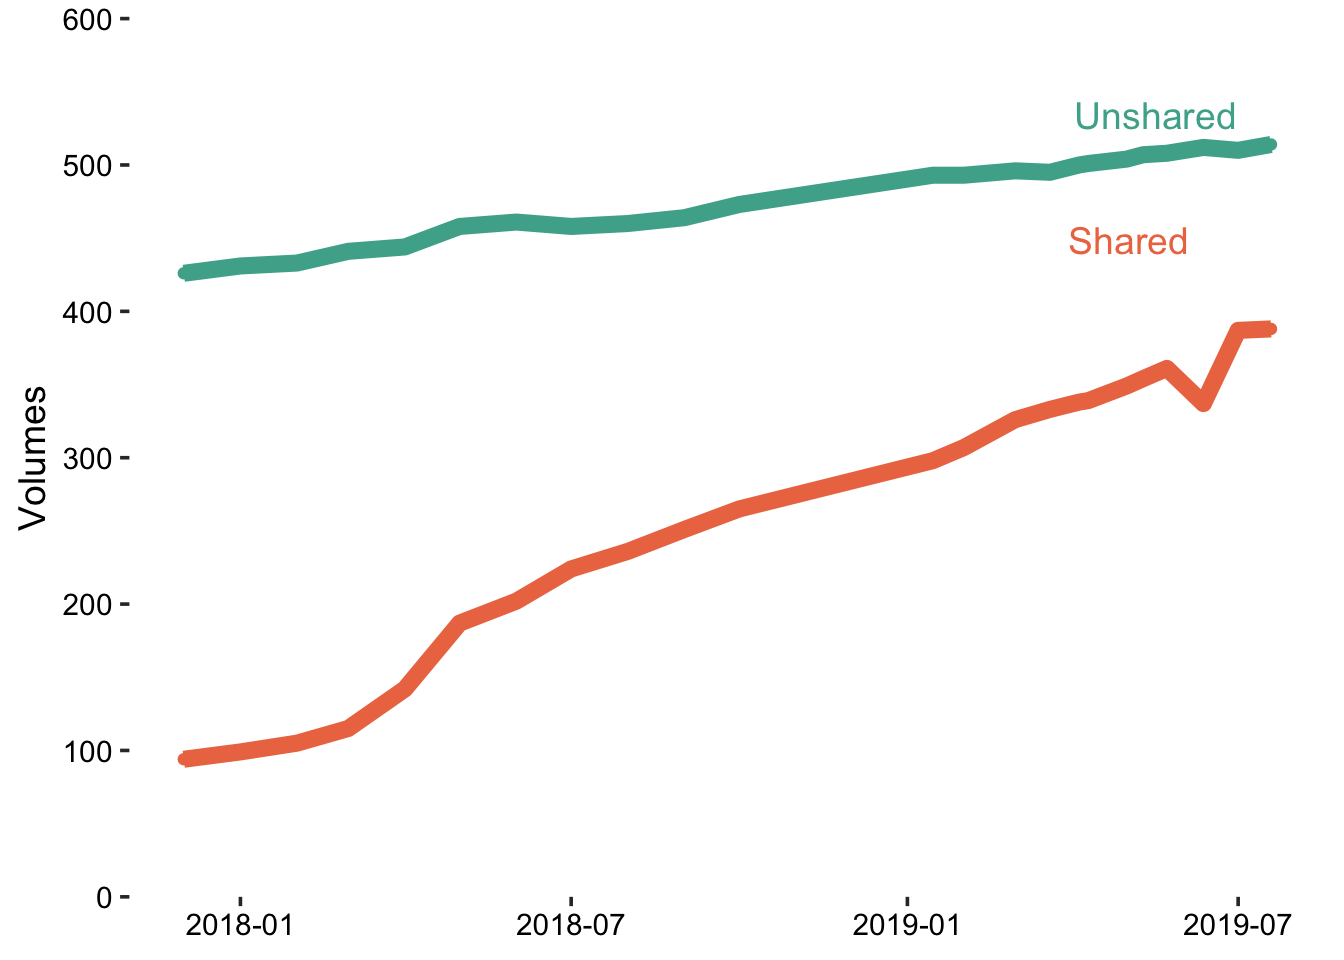
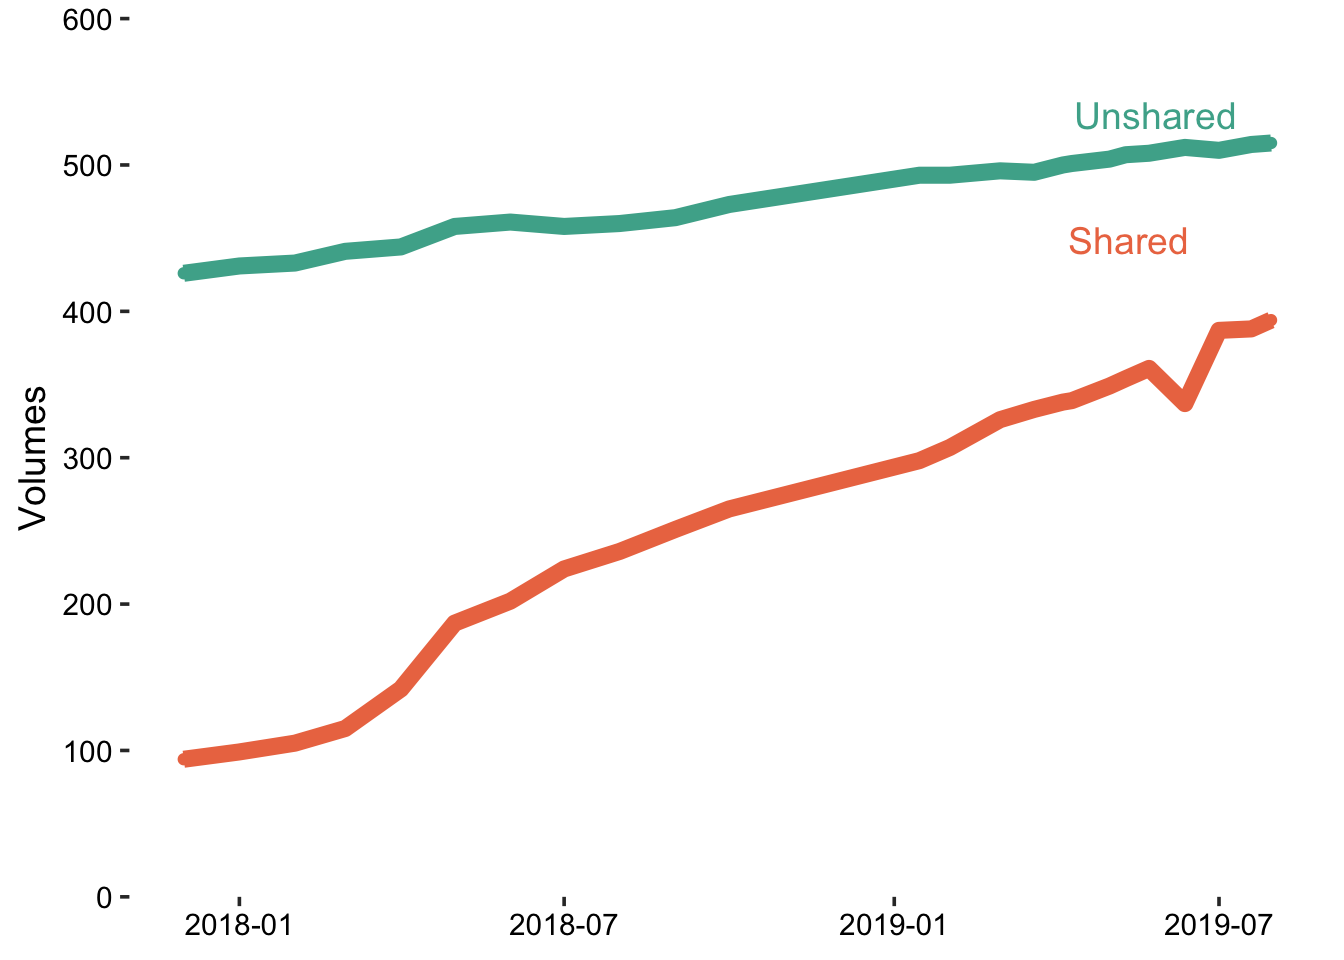
Run weekly report

diff --git a/databrary_weekly_rpt.html b/databrary_weekly_rpt.html
@@ -262,7 +262,7 @@ div.tocify {
 
 <h1 class="title toc-ignore">Databrary Weekly</h1>
 <h4 class="author">Rick O. Gilmore &amp; Andrea Seisler</h4>
-<h4 class="date">2019-07-19 10:24:00</h4>
+<h4 class="date">2019-07-30 09:35:09</h4>
 
 </div>
 
@@ -301,7 +301,8 @@ updated_stats &lt;- updated_stats %&gt;%
   gather(., key = &quot;type&quot;, value = &quot;count&quot;, -date) %&gt;%
   mutate(date = lubridate::as_date(date)) %&gt;%
   select(date, count, type) %&gt;%
-  filter(type %in% c(&#39;institutions&#39;, &#39;investigators&#39;, &#39;affiliates&#39;))</code></pre>
+  filter(type %in% c(&#39;institutions&#39;, &#39;investigators&#39;, &#39;affiliates&#39;)) %&gt;%
+  filter(!is.na(count))</code></pre>
 <pre><code>## Warning: 3 failed to parse.</code></pre>
 <pre class="r"><code># Plot
 p &lt;- updated_stats %&gt;%
@@ -315,9 +316,9 @@ p &lt;- updated_stats %&gt;%
   coord_cartesian(ylim = c(0, round_any(max(updated_stats$count), 100, ceiling)))
 
 ggdraw(p) + 
-  draw_label(&quot;Investigators&quot;, colour = color_teal, .8, .9) +
-  draw_label(&quot;Institutions&quot;, colour = color_orange, .9, .6)+
-  draw_label(&quot;Affiliates&quot;, colour = color_purple, .9, .3)</code></pre>
+  draw_label(&quot;Investigators&quot;, colour = color_teal, .75, .9) +
+  draw_label(&quot;Institutions&quot;, colour = color_orange, .75, .6)+
+  draw_label(&quot;Affiliates&quot;, colour = color_purple, .75, .3)</code></pre>
 <pre><code>## Warning: Removed 3 rows containing missing values (geom_point).</code></pre>
 <pre><code>## Warning: Removed 3 rows containing missing values (geom_path).</code></pre>
 <p><img src="databrary_weekly_rpt_files/figure-html/db-inst-user-plot-1.png" width="672" /></p>
@@ -347,40 +348,34 @@ new_people %&gt;%
 </thead>
 <tbody>
 <tr class="odd">
-<td align="left">Farr</td>
-<td align="left">Rachel</td>
-<td align="left">University of Kentucky</td>
-<td align="left"><a href="https://databrary.org/party/4689" class="uri">https://databrary.org/party/4689</a></td>
+<td align="left">Yoshikawa</td>
+<td align="left">Takahiro</td>
+<td align="left">Osaka City University Graduate School of Medicine</td>
+<td align="left"><a href="https://databrary.org/party/5629" class="uri">https://databrary.org/party/5629</a></td>
 </tr>
 <tr class="even">
-<td align="left">Suzuka</td>
-<td align="left">Kara</td>
-<td align="left">University of Hawaii</td>
-<td align="left"><a href="https://databrary.org/party/2326" class="uri">https://databrary.org/party/2326</a></td>
+<td align="left">Rushton</td>
+<td align="left">Gregory</td>
+<td align="left">Middle Tennessee State University</td>
+<td align="left"><a href="https://databrary.org/party/5351" class="uri">https://databrary.org/party/5351</a></td>
 </tr>
 <tr class="odd">
-<td align="left">Boor</td>
-<td align="left">Brandon</td>
-<td align="left">Purdue University</td>
-<td align="left"><a href="https://databrary.org/party/5598" class="uri">https://databrary.org/party/5598</a></td>
+<td align="left">Danielson</td>
+<td align="left">Kyle</td>
+<td align="left">University of Toronto</td>
+<td align="left"><a href="https://databrary.org/party/2328" class="uri">https://databrary.org/party/2328</a></td>
 </tr>
 <tr class="even">
-<td align="left">Lai</td>
-<td align="left">Carlo</td>
-<td align="left">Department of Dynamic and Clinical Psychology, Sapienza University of Rome</td>
-<td align="left"><a href="https://databrary.org/party/4918" class="uri">https://databrary.org/party/4918</a></td>
+<td align="left">Jovic</td>
+<td align="left">Svetlana</td>
+<td align="left">SUNY College at Old Westbury</td>
+<td align="left"><a href="https://databrary.org/party/4671" class="uri">https://databrary.org/party/4671</a></td>
 </tr>
 <tr class="odd">
-<td align="left">Gampe</td>
-<td align="left">Anja</td>
-<td align="left">University of Zurich</td>
-<td align="left"><a href="https://databrary.org/party/5594" class="uri">https://databrary.org/party/5594</a></td>
-</tr>
-<tr class="even">
-<td align="left">Kayyal</td>
-<td align="left">Mary</td>
-<td align="left">University of Massachusetts Dartmouth</td>
-<td align="left"><a href="https://databrary.org/party/5308" class="uri">https://databrary.org/party/5308</a></td>
+<td align="left">Lombardi</td>
+<td align="left">Doug</td>
+<td align="left">University of Maryland</td>
+<td align="left"><a href="https://databrary.org/party/4945" class="uri">https://databrary.org/party/4945</a></td>
 </tr>
 </tbody>
 </table>
@@ -402,14 +397,19 @@ new_institutions %&gt;%
 </thead>
 <tbody>
 <tr class="odd">
-<td align="left">University of Hawaii at Manoa</td>
-<td align="left"><a href="https://manoa.hawaii.edu/" class="uri">https://manoa.hawaii.edu/</a></td>
-<td align="left"><a href="https://databrary.org/party/797" class="uri">https://databrary.org/party/797</a></td>
+<td align="left">Osaka City University, Graduate School of Medicine</td>
+<td align="left"><a href="http://www.med.osaka-u.ac.jp/eng/" class="uri">http://www.med.osaka-u.ac.jp/eng/</a></td>
+<td align="left"><a href="https://databrary.org/party/5674" class="uri">https://databrary.org/party/5674</a></td>
 </tr>
 <tr class="even">
-<td align="left">Rutgers University, New Brunswick</td>
-<td align="left"><a href="https://newbrunswick.rutgers.edu/" class="uri">https://newbrunswick.rutgers.edu/</a></td>
-<td align="left"><a href="https://databrary.org/party/52" class="uri">https://databrary.org/party/52</a></td>
+<td align="left">Middle Tennessee State University</td>
+<td align="left"><a href="https://www.mtsu.edu/" class="uri">https://www.mtsu.edu/</a></td>
+<td align="left"><a href="https://databrary.org/party/5673" class="uri">https://databrary.org/party/5673</a></td>
+</tr>
+<tr class="odd">
+<td align="left">SUNY College at Old Westbury</td>
+<td align="left"><a href="https://www.oldwestbury.edu/" class="uri">https://www.oldwestbury.edu/</a></td>
+<td align="left"><a href="https://databrary.org/party/5672" class="uri">https://databrary.org/party/5672</a></td>
 </tr>
 </tbody>
 </table>
@@ -498,34 +498,34 @@ unnested_vols %&gt;%
 </thead>
 <tbody>
 <tr class="odd">
-<td align="left">“Dancing” together: Infant-mother locomotor synchrony across space and time</td>
-<td align="left">2019-07-15</td>
-<td align="left">Adolph, Karen</td>
-<td align="left"><a href="https://nyu.databrary.org/volume/943" class="uri">https://nyu.databrary.org/volume/943</a></td>
+<td align="left">Scientific Reasoning</td>
+<td align="left">2019-07-29</td>
+<td align="left">Weisberg, Deena Skolnick</td>
+<td align="left"><a href="https://nyu.databrary.org/volume/950" class="uri">https://nyu.databrary.org/volume/950</a></td>
 </tr>
 <tr class="even">
-<td align="left">Trust in Context: Flipped</td>
-<td align="left">2019-07-12</td>
+<td align="left">BioBehavioral Synchrony</td>
+<td align="left">2019-07-29</td>
+<td align="left">Tamis-LeMonda, Catherine</td>
+<td align="left"><a href="https://nyu.databrary.org/volume/949" class="uri">https://nyu.databrary.org/volume/949</a></td>
+</tr>
+<tr class="odd">
+<td align="left">BioBehavioral Synchrony</td>
+<td align="left">2019-07-29</td>
+<td align="left">Hirsh-Pasek, Kathy</td>
+<td align="left"><a href="https://nyu.databrary.org/volume/949" class="uri">https://nyu.databrary.org/volume/949</a></td>
+</tr>
+<tr class="even">
+<td align="left">HAB &amp; Trust V2</td>
+<td align="left">2019-07-26</td>
 <td align="left">Palmquist, Carolyn</td>
-<td align="left"><a href="https://nyu.databrary.org/volume/942" class="uri">https://nyu.databrary.org/volume/942</a></td>
+<td align="left"><a href="https://nyu.databrary.org/volume/948" class="uri">https://nyu.databrary.org/volume/948</a></td>
 </tr>
 <tr class="odd">
-<td align="left">Walking and Talking</td>
-<td align="left">2019-07-11</td>
-<td align="left">Adolph, Karen</td>
-<td align="left"><a href="https://nyu.databrary.org/volume/941" class="uri">https://nyu.databrary.org/volume/941</a></td>
-</tr>
-<tr class="even">
-<td align="left">Emotion Portrayal Creation</td>
-<td align="left">2019-07-09</td>
-<td align="left">Goldstein, Thalia R.</td>
-<td align="left"><a href="https://nyu.databrary.org/volume/940" class="uri">https://nyu.databrary.org/volume/940</a></td>
-</tr>
-<tr class="odd">
-<td align="left">Emotion Portrayal Creation</td>
-<td align="left">2019-07-09</td>
-<td align="left">Chulla, Kaylee Rose</td>
-<td align="left"><a href="https://nyu.databrary.org/volume/940" class="uri">https://nyu.databrary.org/volume/940</a></td>
+<td align="left">iTRAC Mobile Eye Tracking Complete</td>
+<td align="left">2019-07-26</td>
+<td align="left">Perez-Edgar, Koraly</td>
+<td align="left"><a href="https://nyu.databrary.org/volume/947" class="uri">https://nyu.databrary.org/volume/947</a></td>
 </tr>
 </tbody>
 </table>
@@ -564,7 +564,7 @@ video_stats &lt;- Reduce(function(x,y) merge(x, y, all = TRUE), video_data)</cod
 vol_info &lt;- lapply(vols, list_volume_metadata)
 vols_data &lt;- Reduce(function(x,y) merge(x, y, all = TRUE), vol_info)
 vols_joined &lt;- dplyr::left_join(vols_data, video_stats, by = c(&quot;vol_id&quot; = &quot;vol_id&quot;))</code></pre>
-<p>There are 123 volumes with DOIs (shared) that have sessions and at least one video as of today (2019-07-19 10:24:35).</p>
+<p>There are 123 volumes with DOIs (shared) that have sessions and at least one video as of today (2019-07-30 09:35:51).</p>
 <div id="number-of-videos-in-shared-volumes" class="section level2">
 <h2><span class="header-section-number">3.1</span> Number of videos in (shared) volumes</h2>
 <pre class="r"><code>vols_joined %&gt;%
